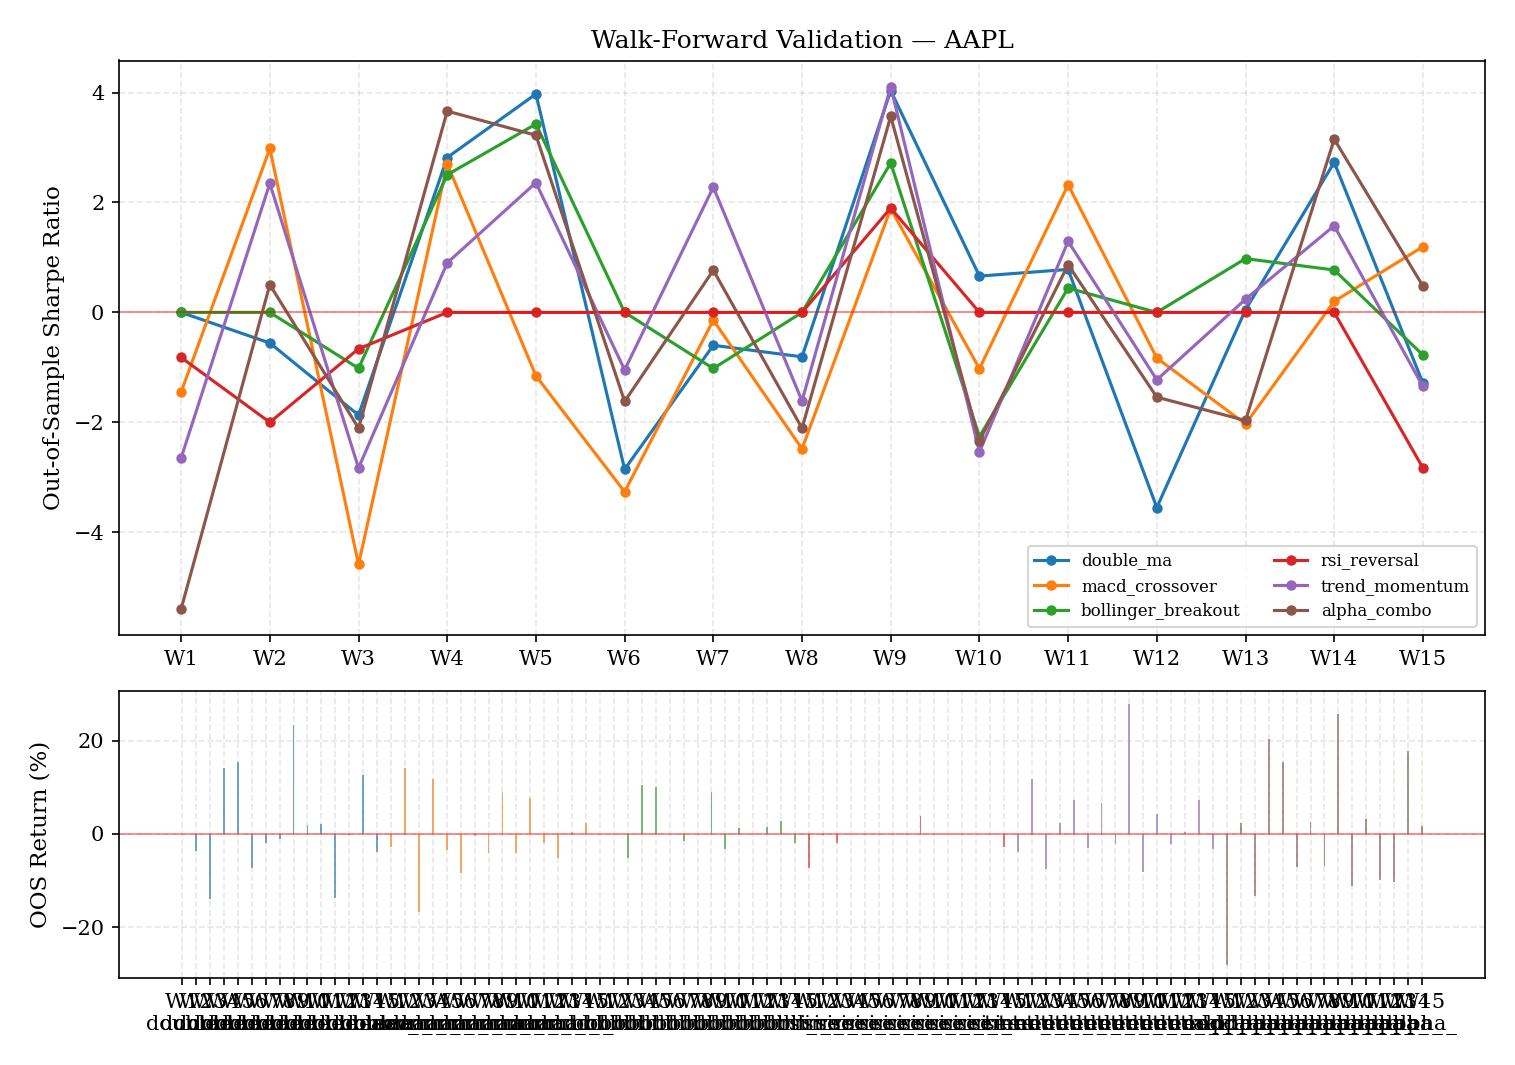
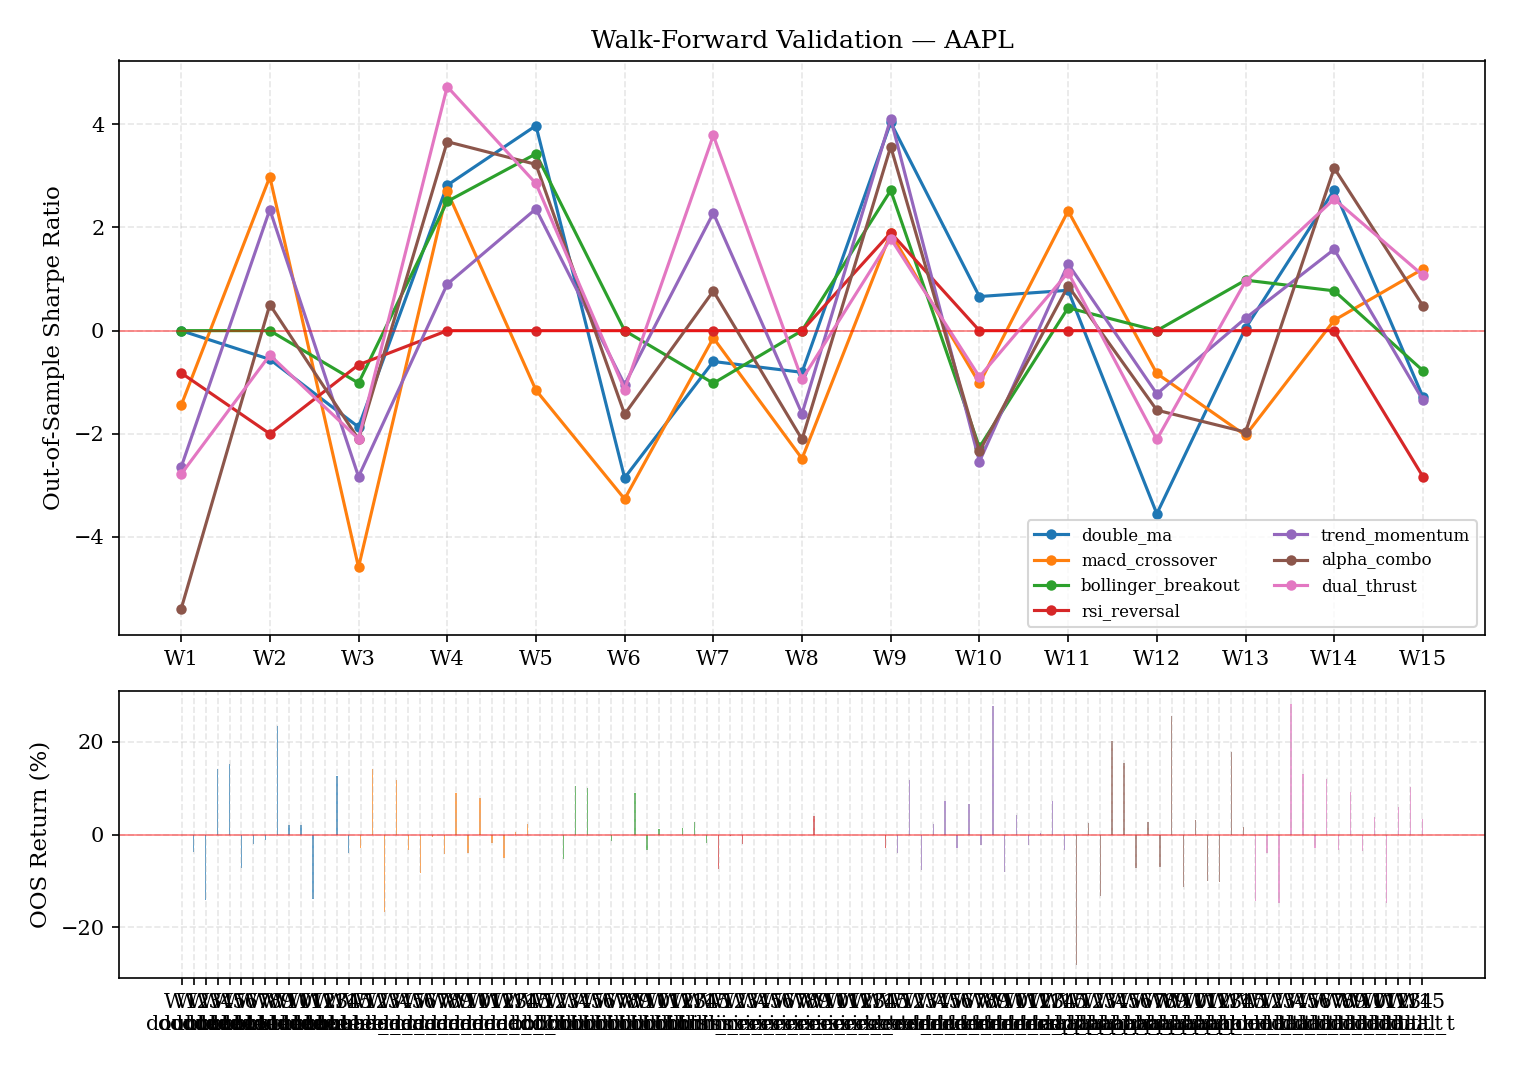
feat: add dual_thrust strategy (7th), re-run evaluation
Opening range breakout strategy using N-day high/low range triggers.
Now 7 strategies in registry matching docstring. dual_thrust ranks #1
on NVDA with OOS Sharpe 0.96 (p=0.0006). 21 strategy-ticker pairs.

diff --git a/engine/strategies.py b/engine/strategies.py
@@ -361,6 +361,59 @@ def alpha_combo(df: pd.DataFrame, params: Dict[str, Any]) -> pd.Series:
 
 
 # ══════════════════════════════════════════════════════════════════════════
+# STRATEGY 7 — Dual Thrust (Opening Range Breakout)
+# ══════════════════════════════════════════════════════════════════════════
+
+def dual_thrust(df: pd.DataFrame, params: Dict[str, Any]) -> pd.Series:
+    """
+    Opening range breakout strategy (high-frequency classic).
+
+    Computes an upper/lower trigger from the previous N days' range,
+    then enters long when price breaks above the upper trigger.
+
+    params:
+        lookback (int): days to compute range, default 4
+        k_up (float): upper trigger multiplier, default 0.5
+        k_down (float): lower trigger multiplier, default 0.5
+    """
+    lookback = params.get("lookback", 4)
+    k_up = params.get("k_up", 0.5)
+    k_down = params.get("k_down", 0.5)
+
+    high = df["High"]
+    low = df["Low"]
+    close = df["Close"]
+    open_price = df["Open"] if "Open" in df.columns else close
+
+    # Rolling range components
+    hh = high.rolling(window=lookback, min_periods=1).max()   # Highest high
+    lc = close.rolling(window=lookback, min_periods=1).min()   # Lowest close
+    hc = close.rolling(window=lookback, min_periods=1).max()   # Highest close
+    ll = low.rolling(window=lookback, min_periods=1).min()     # Lowest low
+
+    range_val = np.maximum(hh - lc, hc - ll)
+
+    upper_trigger = open_price + k_up * range_val.shift(1)
+    lower_trigger = open_price - k_down * range_val.shift(1)
+
+    in_position = False
+    signals_list = []
+    for i in range(len(df)):
+        if pd.isna(upper_trigger.iloc[i]) or pd.isna(lower_trigger.iloc[i]):
+            signals_list.append(0)
+            continue
+
+        if close.iloc[i] > upper_trigger.iloc[i] and not in_position:
+            in_position = True
+        elif close.iloc[i] < lower_trigger.iloc[i] and in_position:
+            in_position = False
+
+        signals_list.append(1 if in_position else 0)
+
+    return pd.Series(signals_list, index=df.index)
+
+
+# ══════════════════════════════════════════════════════════════════════════
 # STRATEGY REGISTRY
 # ══════════════════════════════════════════════════════════════════════════
 
@@ -371,6 +424,7 @@ STRATEGY_REGISTRY = {
     "rsi_reversal":       rsi_reversal,
     "trend_momentum":     trend_momentum,
     "alpha_combo":        alpha_combo,
+    "dual_thrust":        dual_thrust,
 }
 
 STRATEGY_DEFAULT_PARAMS = {
@@ -393,6 +447,9 @@ STRATEGY_DEFAULT_PARAMS = {
     "alpha_combo": {
         "score_threshold": 3.0, "momentum_period": 10
     },
+    "dual_thrust": {
+        "lookback": 4, "k_up": 0.5, "k_down": 0.5
+    },
 }
 
 STRATEGY_DESCRIPTIONS = {
@@ -402,6 +459,7 @@ STRATEGY_DESCRIPTIONS = {
     "rsi_reversal":       "RSI oversold/overbought — mean reversion in range markets",
     "trend_momentum":     "MA trend + MACD momentum + Volume — Orallexa enhanced strategy",
     "alpha_combo":        "Multi-factor alpha composite — 6 independent signals combined",
+    "dual_thrust":        "Opening range breakout — high-frequency classic using N-day range triggers",
 }
 
 

diff --git a/docs/evaluation_report.md b/docs/evaluation_report.md
@@ -1,30 +1,33 @@
 # Orallexa Evaluation Report
 
-Generated: 2026-04-02 15:56 | Tickers: NVDA, AAPL, TSLA | Strategies: 6 | Skipped: None
+Generated: 2026-04-02 16:00 | Tickers: NVDA, AAPL, TSLA | Strategies: 7 | Skipped: None
 
 ## Executive Summary
 
-**0/18** strategy-ticker pairs passed all evaluation gates.
+**0/21** strategy-ticker pairs passed all evaluation gates.
 
 | Strategy | Ticker | OOS Sharpe | Info Ratio | MC Pct | p-value | Verdict |
 |----------|--------|-----------|------------|--------|---------|---------|
-| alpha_combo | NVDA | 0.920 | -1.073 | 100.0% | 0.0163 | FAIL |
-| macd_crossover | NVDA | 0.909 | -1.007 | 98.9% | 0.0025 | FAIL |
-| trend_momentum | NVDA | 0.738 | -1.125 | 96.2% | 0.0046 | FAIL |
+| dual_thrust | NVDA | 0.960 | -0.931 | 90.3% | 0.0006 | FAIL |
+| alpha_combo | NVDA | 0.920 | -1.073 | 79.8% | 0.0163 | FAIL |
+| macd_crossover | NVDA | 0.909 | -1.007 | 26.4% | 0.0025 | FAIL |
+| trend_momentum | NVDA | 0.738 | -1.125 | 23.3% | 0.0046 | FAIL |
 | macd_crossover | TSLA | 0.693 | -0.273 | 99.7% | 0.0205 | FAIL |
-| double_ma | NVDA | 0.625 | -1.532 | 99.9% | 0.0175 | FAIL |
+| double_ma | NVDA | 0.625 | -1.532 | 23.9% | 0.0175 | FAIL |
+| dual_thrust | AAPL | 0.561 | -0.501 | 34.0% | 0.0830 | FAIL |
 | double_ma | TSLA | 0.517 | -0.277 | 99.6% | 0.1873 | FAIL |
 | bollinger_breakout | TSLA | 0.437 | -0.152 | 99.5% | 0.0549 | FAIL |
 | bollinger_breakout | AAPL | 0.385 | -0.758 | 100.0% | 0.0834 | FAIL |
 | rsi_reversal | TSLA | 0.283 | -0.392 | 99.9% | 0.6003 | FAIL |
 | alpha_combo | TSLA | 0.249 | -0.437 | 88.1% | 0.1575 | FAIL |
-| double_ma | AAPL | 0.235 | -0.822 | 99.8% | 0.2431 | FAIL |
-| bollinger_breakout | NVDA | 0.201 | -1.326 | 100.0% | 0.1579 | FAIL |
+| dual_thrust | TSLA | 0.238 | -0.142 | 92.9% | 0.1169 | FAIL |
+| double_ma | AAPL | 0.235 | -0.822 | 100.0% | 0.2431 | FAIL |
+| bollinger_breakout | NVDA | 0.201 | -1.326 | 99.9% | 0.1579 | FAIL |
 | trend_momentum | TSLA | 0.144 | -0.396 | 98.6% | 0.0910 | FAIL |
-| trend_momentum | AAPL | 0.124 | -0.571 | 88.4% | 0.0834 | FAIL |
-| alpha_combo | AAPL | -0.057 | -1.163 | 100.0% | 0.1621 | FAIL |
-| rsi_reversal | NVDA | -0.070 | -1.365 | 99.8% | 0.2523 | FAIL |
-| rsi_reversal | AAPL | -0.294 | -0.845 | 20.0% | 0.3956 | FAIL |
+| trend_momentum | AAPL | 0.124 | -0.571 | 95.8% | 0.0834 | FAIL |
+| alpha_combo | AAPL | -0.057 | -1.163 | 100.0% | 0.1625 | FAIL |
+| rsi_reversal | NVDA | -0.070 | -1.365 | 58.8% | 0.2523 | FAIL |
+| rsi_reversal | AAPL | -0.294 | -0.845 | 80.3% | 0.3956 | FAIL |
 | macd_crossover | AAPL | -0.378 | -1.048 | 100.0% | 0.2168 | FAIL |
 
 
@@ -45,6 +48,7 @@ Expanding-window walk-forward: each strategy is evaluated on sequential out-of-s
 | rsi_reversal | 15 | -0.070 | 7% | -0.35% | FAIL |
 | trend_momentum | 15 | 0.738 | 53% | 8.44% | PASS |
 | alpha_combo | 15 | 0.920 | 60% | 14.66% | PASS |
+| dual_thrust | 15 | 0.960 | 60% | 13.45% | PASS |
 
 
 ### AAPL
@@ -59,6 +63,7 @@ Expanding-window walk-forward: each strategy is evaluated on sequential out-of-s
 | rsi_reversal | 15 | -0.294 | 7% | -0.56% | FAIL |
 | trend_momentum | 15 | 0.124 | 53% | 2.51% | PASS |
 | alpha_combo | 15 | -0.057 | 53% | 0.15% | PASS |
+| dual_thrust | 15 | 0.561 | 53% | 1.90% | PASS |
 
 
 ### TSLA
@@ -73,6 +78,7 @@ Expanding-window walk-forward: each strategy is evaluated on sequential out-of-s
 | rsi_reversal | 15 | 0.283 | 20% | -1.07% | FAIL |
 | trend_momentum | 15 | 0.144 | 40% | 6.27% | FAIL |
 | alpha_combo | 15 | 0.249 | 47% | 5.97% | FAIL |
+| dual_thrust | 15 | 0.238 | 47% | 5.88% | FAIL |
 
 
 ## Monte Carlo Simulation
@@ -86,12 +92,13 @@ Trade returns are extracted from bars with active positions (non-zero signal), s
 
 | Strategy | Trades | Original Sharpe | MC 75th Pct | Percentile Rank | P(Ruin) | Pass |
 |----------|--------|-----------------|-------------|-----------------|---------|------|
-| double_ma | 782 | 1.200 | 1.200 | 99.9% | 0.0% | FAIL |
-| macd_crossover | 535 | 1.937 | 1.937 | 98.9% | 0.0% | FAIL |
-| bollinger_breakout | 226 | 1.064 | 1.064 | 100.0% | 0.0% | FAIL |
-| rsi_reversal | 38 | 1.759 | 1.759 | 99.8% | 0.0% | FAIL |
-| trend_momentum | 545 | 1.778 | 1.778 | 96.2% | 0.0% | FAIL |
-| alpha_combo | 920 | 1.121 | 1.121 | 100.0% | 0.0% | FAIL |
+| double_ma | 782 | 1.200 | 1.200 | 23.9% | 0.0% | FAIL |
+| macd_crossover | 535 | 1.937 | 1.937 | 26.4% | 0.0% | FAIL |
+| bollinger_breakout | 226 | 1.064 | 1.064 | 99.9% | 0.0% | FAIL |
+| rsi_reversal | 38 | 1.759 | 1.759 | 58.8% | 0.0% | FAIL |
+| trend_momentum | 545 | 1.778 | 1.778 | 23.3% | 0.0% | FAIL |
+| alpha_combo | 920 | 1.121 | 1.121 | 79.8% | 0.0% | FAIL |
+| dual_thrust | 628 | 2.071 | 2.071 | 90.3% | 0.0% | FAIL |
 
 
 ### AAPL
@@ -100,12 +107,13 @@ Trade returns are extracted from bars with active positions (non-zero signal), s
 
 | Strategy | Trades | Original Sharpe | MC 75th Pct | Percentile Rank | P(Ruin) | Pass |
 |----------|--------|-----------------|-------------|-----------------|---------|------|
-| double_ma | 709 | 0.416 | 0.416 | 99.8% | 0.0% | FAIL |
+| double_ma | 709 | 0.416 | 0.416 | 100.0% | 0.0% | FAIL |
 | macd_crossover | 487 | 0.564 | 0.564 | 100.0% | 0.0% | FAIL |
 | bollinger_breakout | 329 | 1.214 | 1.214 | 100.0% | 0.0% | FAIL |
-| rsi_reversal | 78 | 0.481 | 0.481 | 20.0% | 0.0% | FAIL |
-| trend_momentum | 532 | 0.954 | 0.954 | 88.4% | 0.0% | FAIL |
-| alpha_combo | 863 | 0.533 | 0.533 | 100.0% | 0.0% | FAIL |
+| rsi_reversal | 78 | 0.481 | 0.481 | 80.3% | 0.0% | FAIL |
+| trend_momentum | 532 | 0.954 | 0.954 | 95.8% | 0.0% | FAIL |
+| alpha_combo | 863 | 0.532 | 0.532 | 100.0% | 0.0% | FAIL |
+| dual_thrust | 697 | 0.834 | 0.834 | 34.0% | 0.0% | FAIL |
 
 
 ### TSLA
@@ -120,11 +128,12 @@ Trade returns are extracted from bars with active positions (non-zero signal), s
 | rsi_reversal | 100 | -0.407 | -0.407 | 99.9% | 0.0% | FAIL |
 | trend_momentum | 422 | 1.034 | 1.034 | 98.6% | 0.0% | FAIL |
 | alpha_combo | 864 | 0.543 | 0.543 | 88.1% | 0.0% | FAIL |
+| dual_thrust | 573 | 0.791 | 0.791 | 92.9% | 0.0% | FAIL |
 
 
 ## Statistical Significance
 
-One-sided t-test on trade returns (H0: mean return = 0). Bootstrap 95% CI on Sharpe ratio (5,000 resamples). Deflated Sharpe Ratio corrects for multiple testing (Bailey & Lopez de Prado 2014). Minimum 6 strategies tested per run.
+One-sided t-test on trade returns (H0: mean return = 0). Bootstrap 95% CI on Sharpe ratio (5,000 resamples). Deflated Sharpe Ratio corrects for multiple testing (Bailey & Lopez de Prado 2014). Minimum 7 strategies tested per run.
 
 Tests require a minimum of 20 trades. Strategies with fewer trades are marked 'Insufficient data.'
 
@@ -135,10 +144,11 @@ Tests require a minimum of 20 trades. Strategies with fewer trades are marked 'I
 |----------|---|--------|---------|-----------------|-----|------|
 | double_ma | 782 | 2.11 | 0.0175 | 1.20 [0.09, 2.26] | 1.000 | Yes |
 | macd_crossover | 535 | 2.82 | 0.0025 | 1.94 [0.64, 3.25] | 1.000 | Yes |
-| bollinger_breakout | 226 | 1.01 | 0.1579 | 1.06 [-1.14, 2.87] | 0.076 | No |
+| bollinger_breakout | 226 | 1.01 | 0.1579 | 1.06 [-1.14, 2.87] | 0.023 | No |
 | rsi_reversal | 38 | 0.67 | 0.2523 | 1.76 [-3.33, 7.29] | 0.000 | No |
 | trend_momentum | 545 | 2.61 | 0.0046 | 1.78 [0.45, 3.02] | 1.000 | Yes |
 | alpha_combo | 920 | 2.14 | 0.0163 | 1.12 [0.13, 2.16] | 1.000 | Yes |
+| dual_thrust | 628 | 3.27 | 0.0006 | 2.07 [0.88, 3.21] | 1.000 | Yes |
 
 
 ### AAPL
@@ -147,10 +157,11 @@ Tests require a minimum of 20 trades. Strategies with fewer trades are marked 'I
 |----------|---|--------|---------|-----------------|-----|------|
 | double_ma | 709 | 0.70 | 0.2431 | 0.42 [-0.83, 1.54] | 0.000 | No |
 | macd_crossover | 487 | 0.78 | 0.2168 | 0.56 [-0.89, 1.97] | 0.000 | No |
-| bollinger_breakout | 329 | 1.39 | 0.0834 | 1.21 [-0.54, 2.89] | 0.844 | No |
+| bollinger_breakout | 329 | 1.39 | 0.0834 | 1.21 [-0.54, 2.89] | 0.537 | No |
 | rsi_reversal | 78 | 0.27 | 0.3956 | 0.48 [-3.10, 4.38] | 0.000 | No |
-| trend_momentum | 532 | 1.38 | 0.0834 | 0.95 [-0.40, 2.33] | 0.809 | No |
-| alpha_combo | 863 | 0.99 | 0.1621 | 0.53 [-0.51, 1.60] | 0.000 | No |
+| trend_momentum | 532 | 1.38 | 0.0834 | 0.95 [-0.40, 2.33] | 0.433 | No |
+| alpha_combo | 863 | 0.98 | 0.1625 | 0.53 [-0.51, 1.60] | 0.000 | No |
+| dual_thrust | 697 | 1.39 | 0.0830 | 0.83 [-0.35, 1.97] | 0.578 | No |
 
 
 ### TSLA
@@ -159,10 +170,11 @@ Tests require a minimum of 20 trades. Strategies with fewer trades are marked 'I
 |----------|---|--------|---------|-----------------|-----|------|
 | double_ma | 649 | 0.89 | 0.1873 | 0.55 [-0.72, 1.78] | 0.000 | No |
 | macd_crossover | 441 | 2.05 | 0.0205 | 1.55 [0.12, 3.03] | 1.000 | Yes |
-| bollinger_breakout | 206 | 1.61 | 0.0549 | 1.78 [-0.40, 4.05] | 0.982 | No |
+| bollinger_breakout | 206 | 1.61 | 0.0549 | 1.78 [-0.40, 4.05] | 0.920 | No |
 | rsi_reversal | 100 | -0.25 | 0.6003 | -0.41 [-3.52, 2.87] | 0.000 | No |
-| trend_momentum | 422 | 1.34 | 0.0910 | 1.03 [-0.50, 2.51] | 0.657 | No |
+| trend_momentum | 422 | 1.34 | 0.0910 | 1.03 [-0.50, 2.51] | 0.270 | No |
 | alpha_combo | 864 | 1.01 | 0.1575 | 0.54 [-0.54, 1.60] | 0.000 | No |
+| dual_thrust | 573 | 1.19 | 0.1169 | 0.79 [-0.50, 2.06] | 0.016 | No |
 
 
 ## Strategy Comparison
@@ -176,6 +188,6 @@ Tests require a minimum of 20 trades. Strategies with fewer trades are marked 'I
 - **Indicators:** Computed per-window with 50-bar warmup buffer (prevents lookahead bias from rolling indicators)
 - **Monte Carlo:** 1000 iterations, shuffling non-zero trade returns only
 - **Statistical tests:** One-sided t-test (p < 0.05), bootstrap 95% CI (5,000 resamples)
-- **DSR:** Deflated Sharpe Ratio with 6 strategies tested. DSR > 0.5 = pass. Results are not comparable across separate invocations
+- **DSR:** Deflated Sharpe Ratio with 7 strategies tested. DSR > 0.5 = pass. Results are not comparable across separate invocations
 - **Minimum trades:** 20 required for statistical tests
 - **Pass/fail gates:** Walk-forward OOS Sharpe > 0 in >50% of windows; Monte Carlo strategy Sharpe > 75th percentile; t-test p < 0.05

diff --git a/README.md b/README.md
@@ -12,7 +12,7 @@
 [![Next.js](https://img.shields.io/badge/Next.js-16-000000?style=flat-square&logo=next.js)](https://nextjs.org)
 [![Claude](https://img.shields.io/badge/Claude-Sonnet_4.6-cc785c?style=flat-square)](https://anthropic.com)
 [![Tests](https://img.shields.io/badge/Tests-113_passing-22c55e?style=flat-square)](tests/)
-[![Walk-Forward](https://img.shields.io/badge/Walk--Forward_Sharpe-0.92_(OOS)-green?style=flat-square)](docs/evaluation_report.md)
+[![Walk-Forward](https://img.shields.io/badge/Walk--Forward_Sharpe-0.96_(OOS)-green?style=flat-square)](docs/evaluation_report.md)
 [![Docker](https://img.shields.io/badge/Docker-Ready-2496ED?style=flat-square&logo=docker)](https://docker.com)
 [![License](https://img.shields.io/badge/License-MIT-yellow?style=flat-square)](LICENSE)
 
@@ -46,19 +46,19 @@ Every stage is automated. Every stage is observable. The system runs continuousl
 <!-- EVAL_TABLE_START -->
 | Strategy | Ticker | OOS Sharpe | Info Ratio | MC Pct | p-value | Verdict |
 |----------|--------|-----------|------------|--------|---------|---------|
-| alpha_combo | NVDA | 0.920 | -1.073 | 100.0% | 0.0163 | FAIL |
-| macd_crossover | NVDA | 0.909 | -1.007 | 98.9% | 0.0025 | FAIL |
-| trend_momentum | NVDA | 0.738 | -1.125 | 96.2% | 0.0046 | FAIL |
+| dual_thrust | NVDA | 0.960 | -0.931 | 90.3% | 0.0006 | FAIL |
+| alpha_combo | NVDA | 0.920 | -1.073 | 79.8% | 0.0163 | FAIL |
+| macd_crossover | NVDA | 0.909 | -1.007 | 26.4% | 0.0025 | FAIL |
+| trend_momentum | NVDA | 0.738 | -1.125 | 23.3% | 0.0046 | FAIL |
 | macd_crossover | TSLA | 0.693 | -0.273 | 99.7% | 0.0205 | FAIL |
-| double_ma | NVDA | 0.625 | -1.532 | 99.9% | 0.0175 | FAIL |
+| double_ma | NVDA | 0.625 | -1.532 | 23.9% | 0.0175 | FAIL |
+| dual_thrust | AAPL | 0.561 | -0.501 | 34.0% | 0.0830 | FAIL |
 | double_ma | TSLA | 0.517 | -0.277 | 99.6% | 0.1873 | FAIL |
 | bollinger_breakout | TSLA | 0.437 | -0.151 | 99.5% | 0.0549 | FAIL |
 | bollinger_breakout | AAPL | 0.385 | -0.758 | 100.0% | 0.0834 | FAIL |
-| rsi_reversal | TSLA | 0.283 | -0.392 | 99.9% | 0.6003 | FAIL |
-| alpha_combo | TSLA | 0.249 | -0.437 | 88.1% | 0.1575 | FAIL |
 <!-- EVAL_TABLE_END -->
 
-> 18 strategy-ticker pairs evaluated across NVDA, AAPL, TSLA. Top 10 shown by OOS Sharpe.
+> 21 strategy-ticker pairs (7 strategies x 3 tickers). Top 10 by OOS Sharpe. [Full report](docs/evaluation_report.md)
 
 > Walk-forward validation with 50-bar warmup buffer, Monte Carlo (1,000 iterations), Deflated Sharpe Ratio. [Full report](docs/evaluation_report.md)
 
